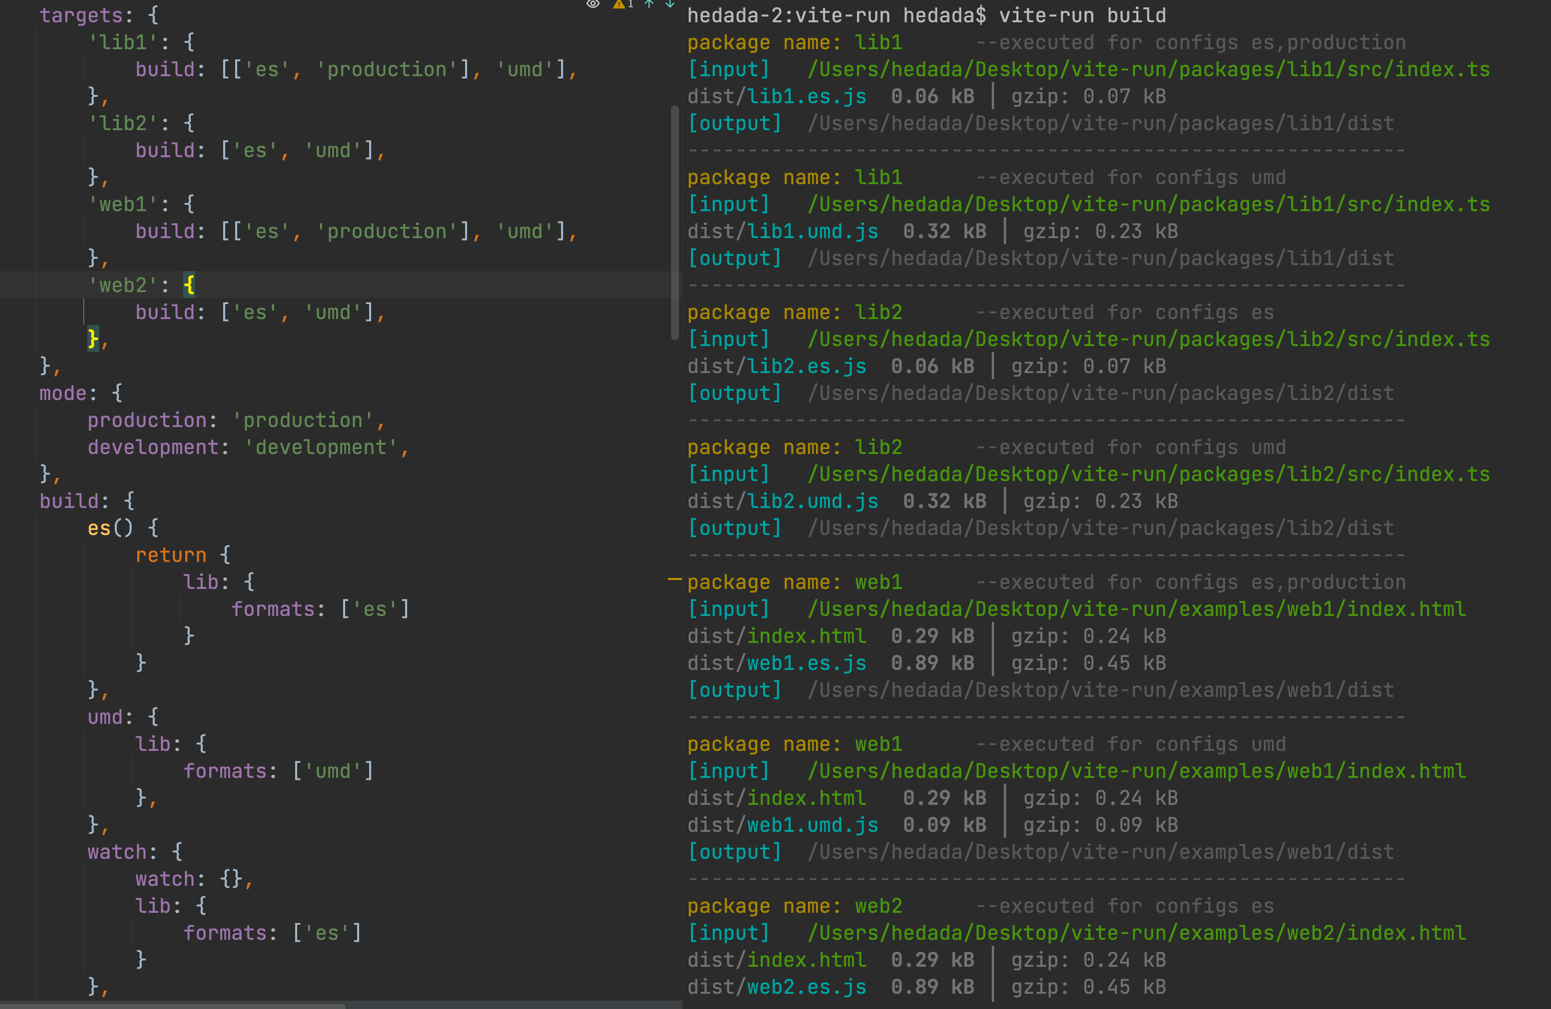
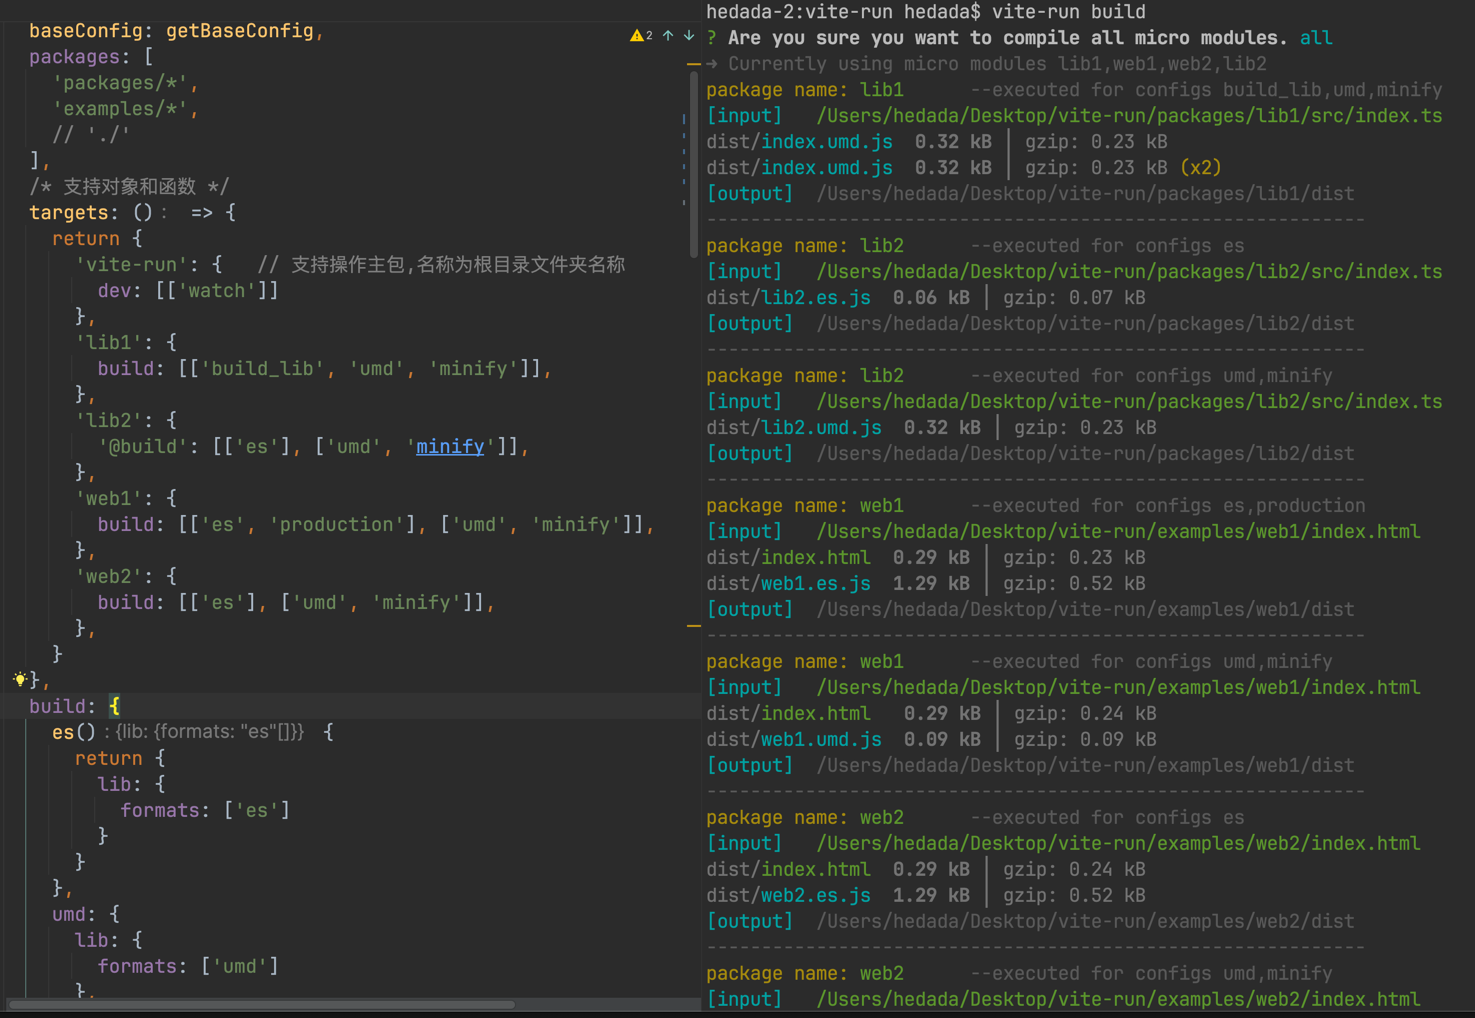
docs: 修改build图片, 增加 manual-selection. 图片

diff --git a/viterun.config.ts b/viterun.config.ts
@@ -17,54 +17,25 @@ export default defineViteRunConfig({
       //   dev: ['watch']
       // },
       'lib1': {
-        build: [
-          ['build_lib', 'umd', 'minify']
-        ],
-        types: [
-          ['types']
-        ],
-        '@dev': [
-          ['watch']
-        ],
+        build: [['build_lib', 'umd', 'minify']],
+        types: [['types']],
+        '@dev': [['watch']],
       },
       'lib2': {
-        '@build': [
-          ['es'],
-          ['umd', 'minify']
-        ],
-        types: [
-          ['types']
-        ],
-        dev: [
-          ['watch']
-        ]
+        '@build': [['es'], ['umd', 'minify']],
+        types: [['types']],
+        dev: [['watch']]
       },
       'web1': {
-        build: [
-          ['es', 'production'],
-          ['umd', 'minify']
-        ],
-        dev: [
-          ['s10000']
-        ],
-        preview: [
-          ['p20000']
-        ]
+        build: [['es'], ['umd', 'minify']],
+        dev: [['s10000']],
+        preview: [['p20000']]
       },
       'web2': {
-        build: [
-          ['es'],
-          ['umd', 'minify']
-        ],
-        dev: [
-          ['s11000']
-        ]
+        build: [['es'], ['umd', 'minify']],
+        dev: [['s11000']]
       },
     }
-  },
-  mode: {
-    production: 'production',
-    development: 'development',
   },
   build: {
     es() {

diff --git a/README.md b/README.md
@@ -83,6 +83,9 @@ for more information [viterun.config.ts](./src/template/docs-viterun.config.ts)
 **build**
 ![build](./images/build.png)
 
+**manual-selection-app**
+![manual-selection](./images/manual-selection.png)
+
 ## viterun.config [.js | .ts]
 
 `Viterun.config`  is a configuration file created in the project root directory,

diff --git a/README.zh-CN.md b/README.zh-CN.md
@@ -76,6 +76,9 @@ options:
 **build**
 ![build](./images/build.png)
 
+**manual-selection-app**
+![manual-selection](./images/manual-selection.png)
+
 ## viterun.config [.js | .ts]
 
 `viterun.config`是在项目根目录下创建的配置文件，类似`vite.config`,
